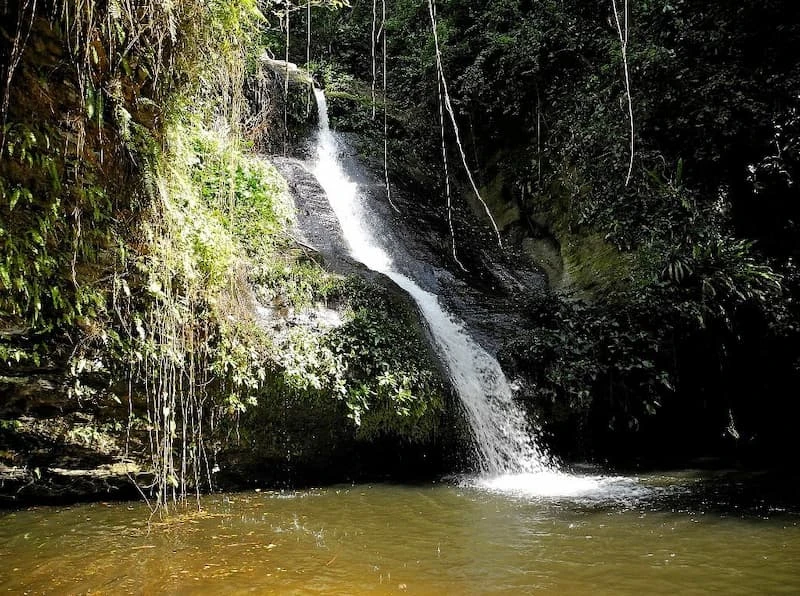
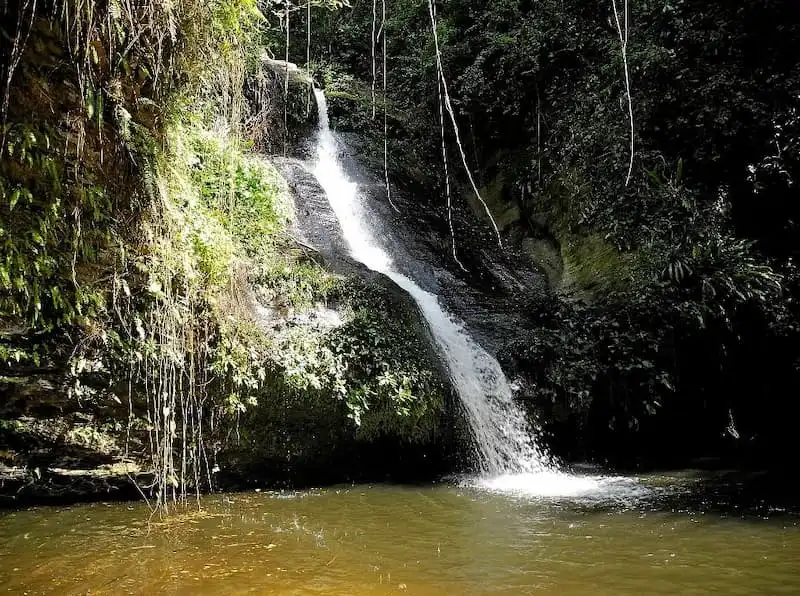
pl

diff --git a/week03/styles/place.css b/week03/styles/place.css
@@ -108,13 +108,15 @@ picture img {
     gap: 1rem;
 }
 
-/* Default: show SVG, hide emoji */
+/* Default: show SVG, no emoji */
 .weather-icon-mobile {
     display: block;
 }
 
-.emoji {
-    display: none;
+/* Add ::after rule explicitly */
+.weather-card h2::after {
+    content: "";
+    /* empty by default on mobile */
 }
 
 footer {
@@ -167,13 +169,13 @@ footer p {
         margin: -1.8rem -1.8rem 1.2rem -1.8rem;
     }
 
-    /* On desktop: hide SVG, show emoji */
+    /* ✅ On desktop: hide SVG, show emoji via ::after */
     .weather-icon-mobile {
         display: none;
     }
 
-    .emoji {
-        display: inline;
+    .weather-card h2::after {
+        content: " ⛅";
         font-size: 1.5rem;
     }
 }

diff --git a/place.html b/place.html
@@ -5,7 +5,7 @@
     <meta charset="UTF-8">
     <meta name="viewport" content="width=device-width, initial-scale=1.0">
     <title>WDD 131 - Kpalime Cascade, Togo - Country Page</title>
-    <meta name="description" content="A attractive and touristic place found in Togo.">
+    <meta name="description" content="An attractive and touristic place found in Kpalime at Togo.">
     <meta name="author" content="Koffi Atoukoulou">
     <link rel="stylesheet" href="week03/styles/place.css">
     <script src="week03/scripts/place.js" defer></script>
